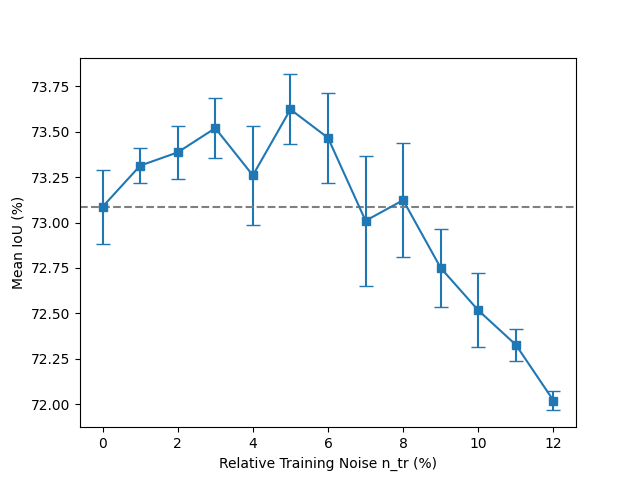
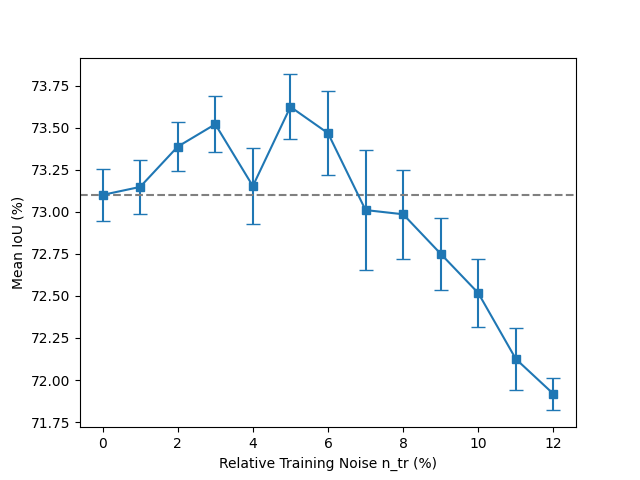
update

diff --git a/draw_A.py b/draw_A.py
@@ -1,22 +1,34 @@
 import matplotlib.pyplot as plt
 import numpy as np
 
-# 第一組資料
+# 第一組資料 seed 42
 data1 = {
     "X": [0, 1, 2, 3, 4, 5, 6, 7, 8, 9, 10, 11, 12],
     "Y": [73.46, 73.55, 73.68, 73.77, 73.81, 74.06, 74.04, 73.36, 73.32, 73.11, 72.90, 72.11, 72.13],
 }
 
-# 第二組資料
+# 第二組資料 seed 46
 data2 = {
     "X": [0, 1, 2, 3, 4, 5, 6, 7, 8, 9, 10, 11, 12],
     "Y": [72.61, 73.19, 73.07, 73.12, 72.65, 73.25, 73.00, 72.14, 72.38, 72.24, 72.05, 72.42, 71.90],
 }
 
-# 第二組資料
+# 第三組資料 seed 49
 data3 = {
     "X": [0, 1, 2, 3, 4, 5, 6, 7, 8, 9, 10, 11, 12],
     "Y": [73.19, 73.20, 73.41, 73.67, 73.32, 73.56, 73.36, 73.53, 73.67, 72.90, 72.60, 72.45, 72.03],
+}
+
+# 第四組資料 seed 47
+data4 = {
+    "X": [0, 1, 4, 8, 11, 12],
+    "Y": [73.14, 72.65, 72.83, 72.57, 71.52, 71.61],
+}
+
+# 第五組資料 seed 50
+data5 = {
+    "X": [0, 1, 11, 12],
+    "Y": [73.14, 73.50, 71.49, 71.88],
 }
 
 # Calculate mean and standard error of the mean (SEM) for each X value
@@ -28,6 +40,8 @@ for x in data1["X"]:
         [data1["Y"][i] for i, val in enumerate(data1["X"]) if val == x]
         + [data2["Y"][i] for i, val in enumerate(data2["X"]) if val == x]
         + [data3["Y"][i] for i, val in enumerate(data3["X"]) if val == x]
+        + [data4["Y"][i] for i, val in enumerate(data4["X"]) if val == x]
+        # + [data5["Y"][i] for i, val in enumerate(data5["X"]) if val == x]
     )
 
     mean_y = np.mean(y_values)
